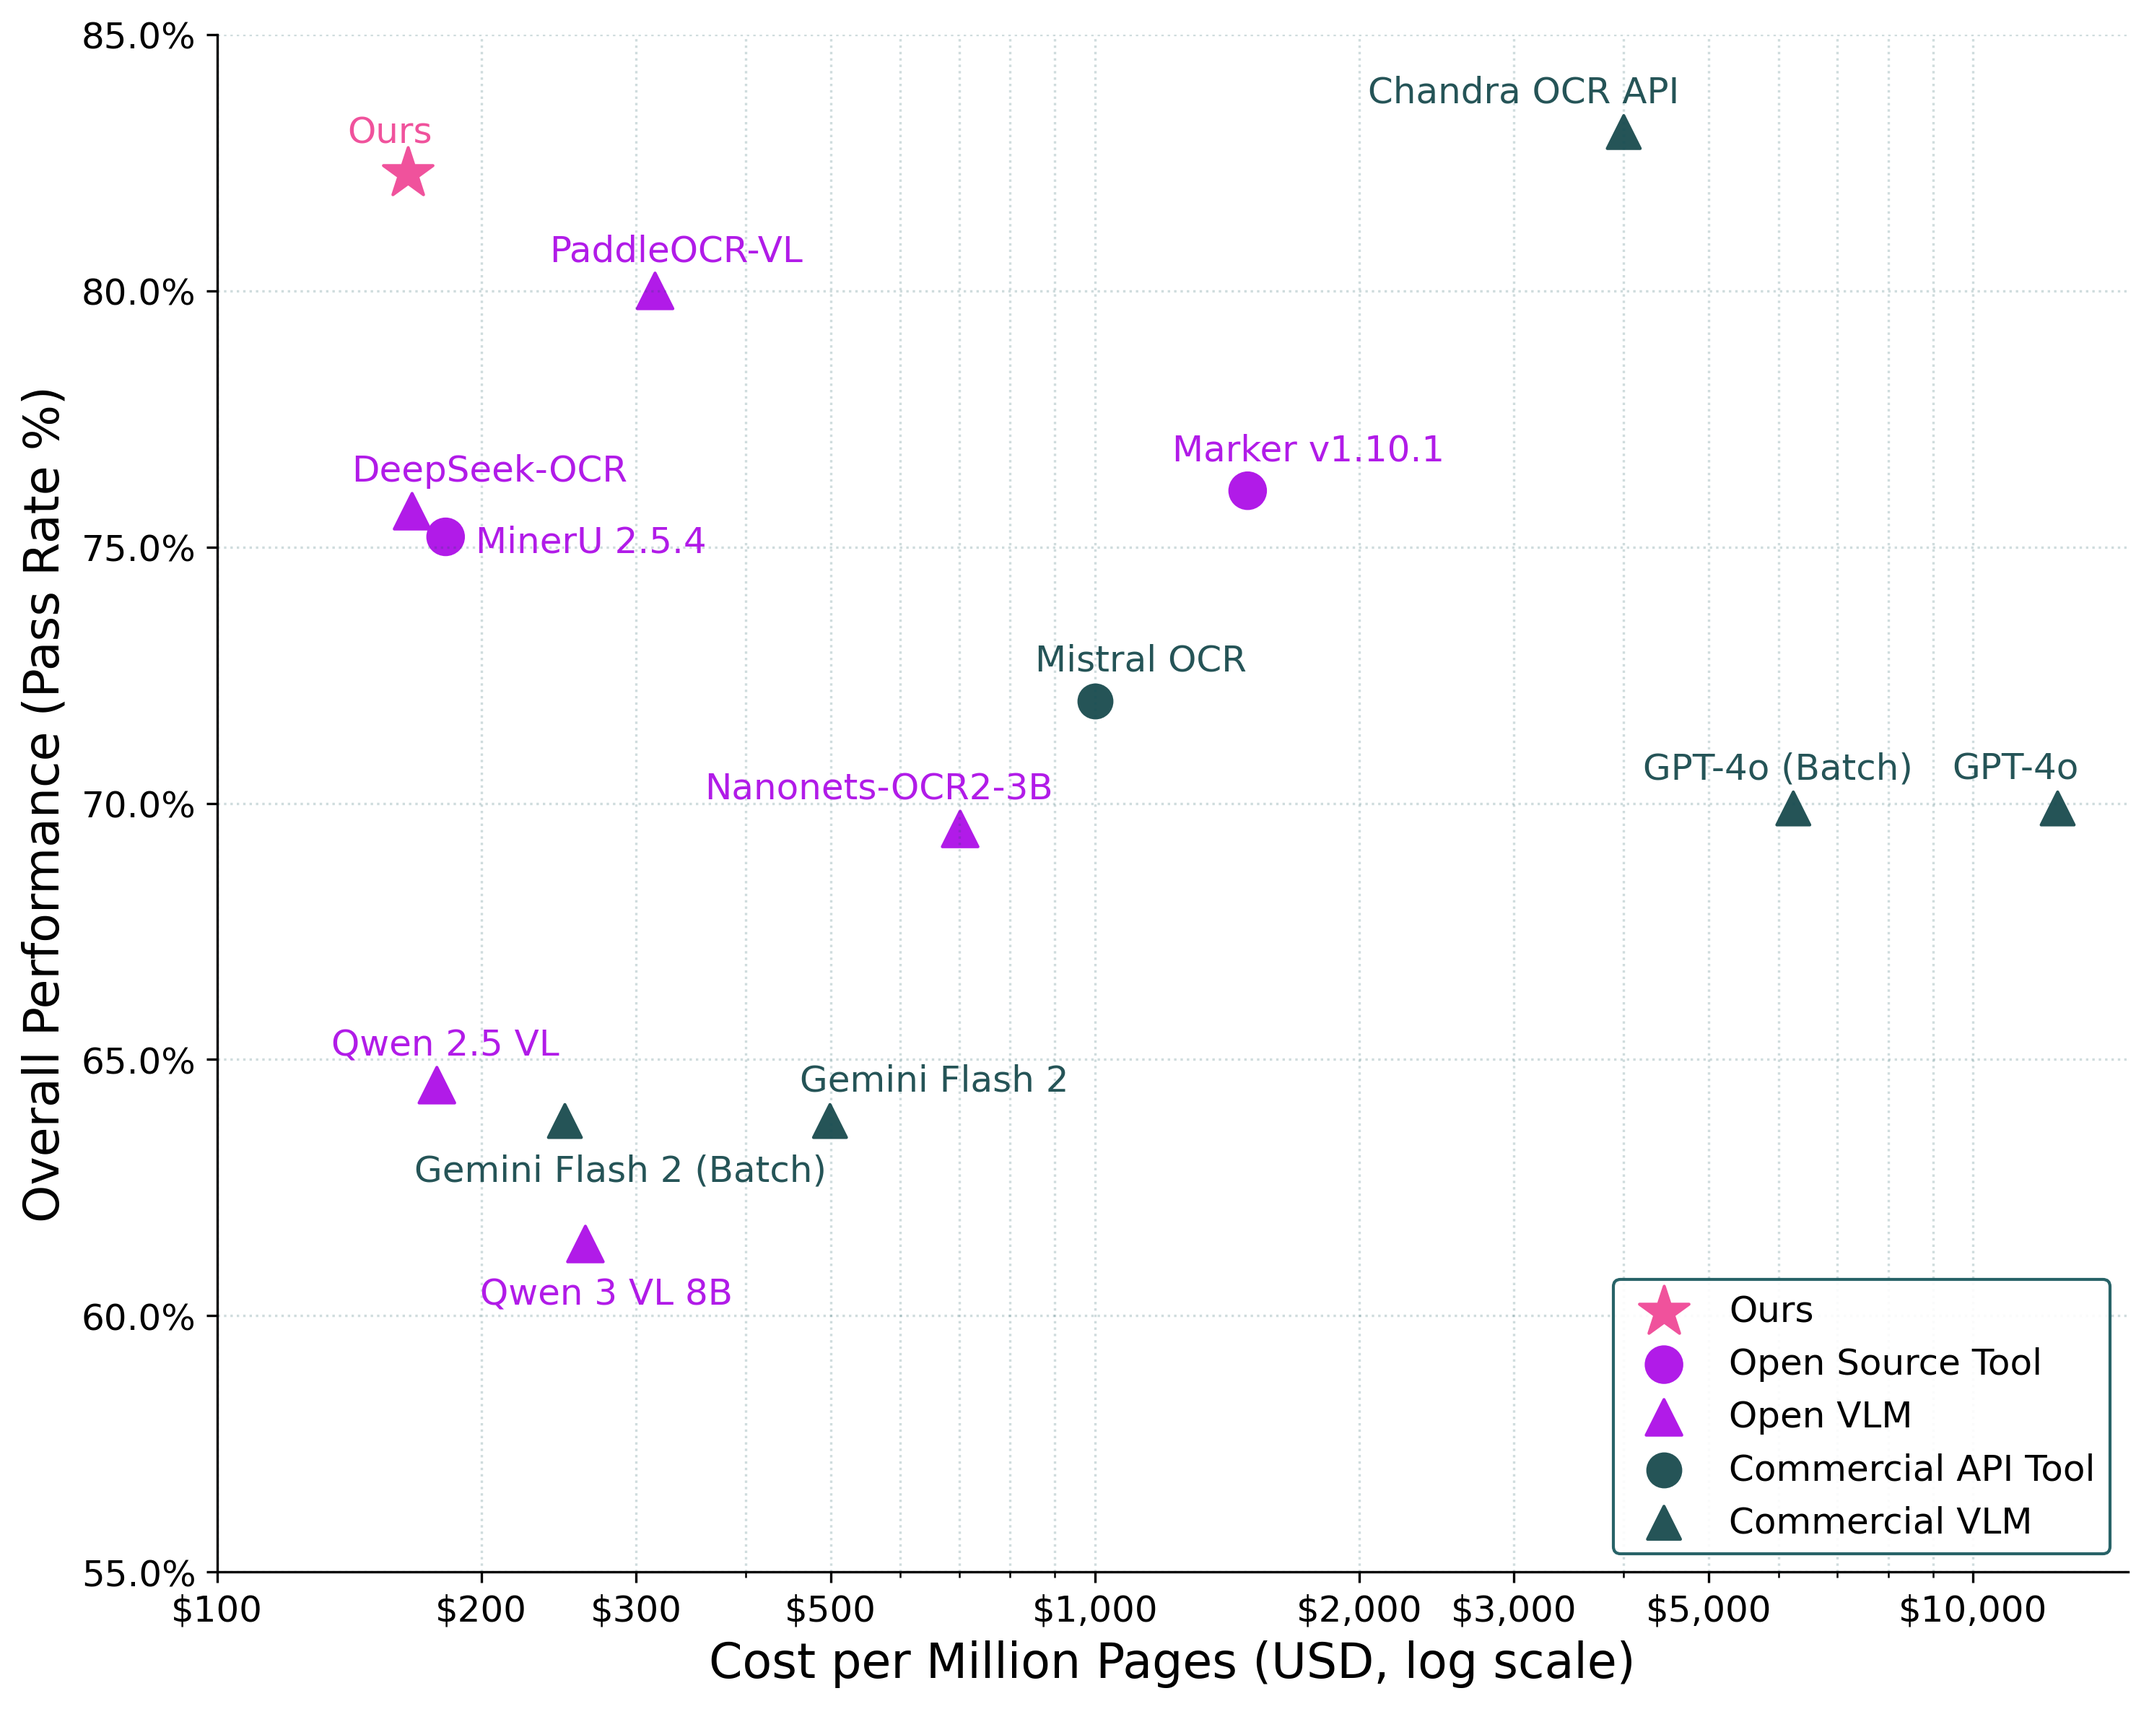
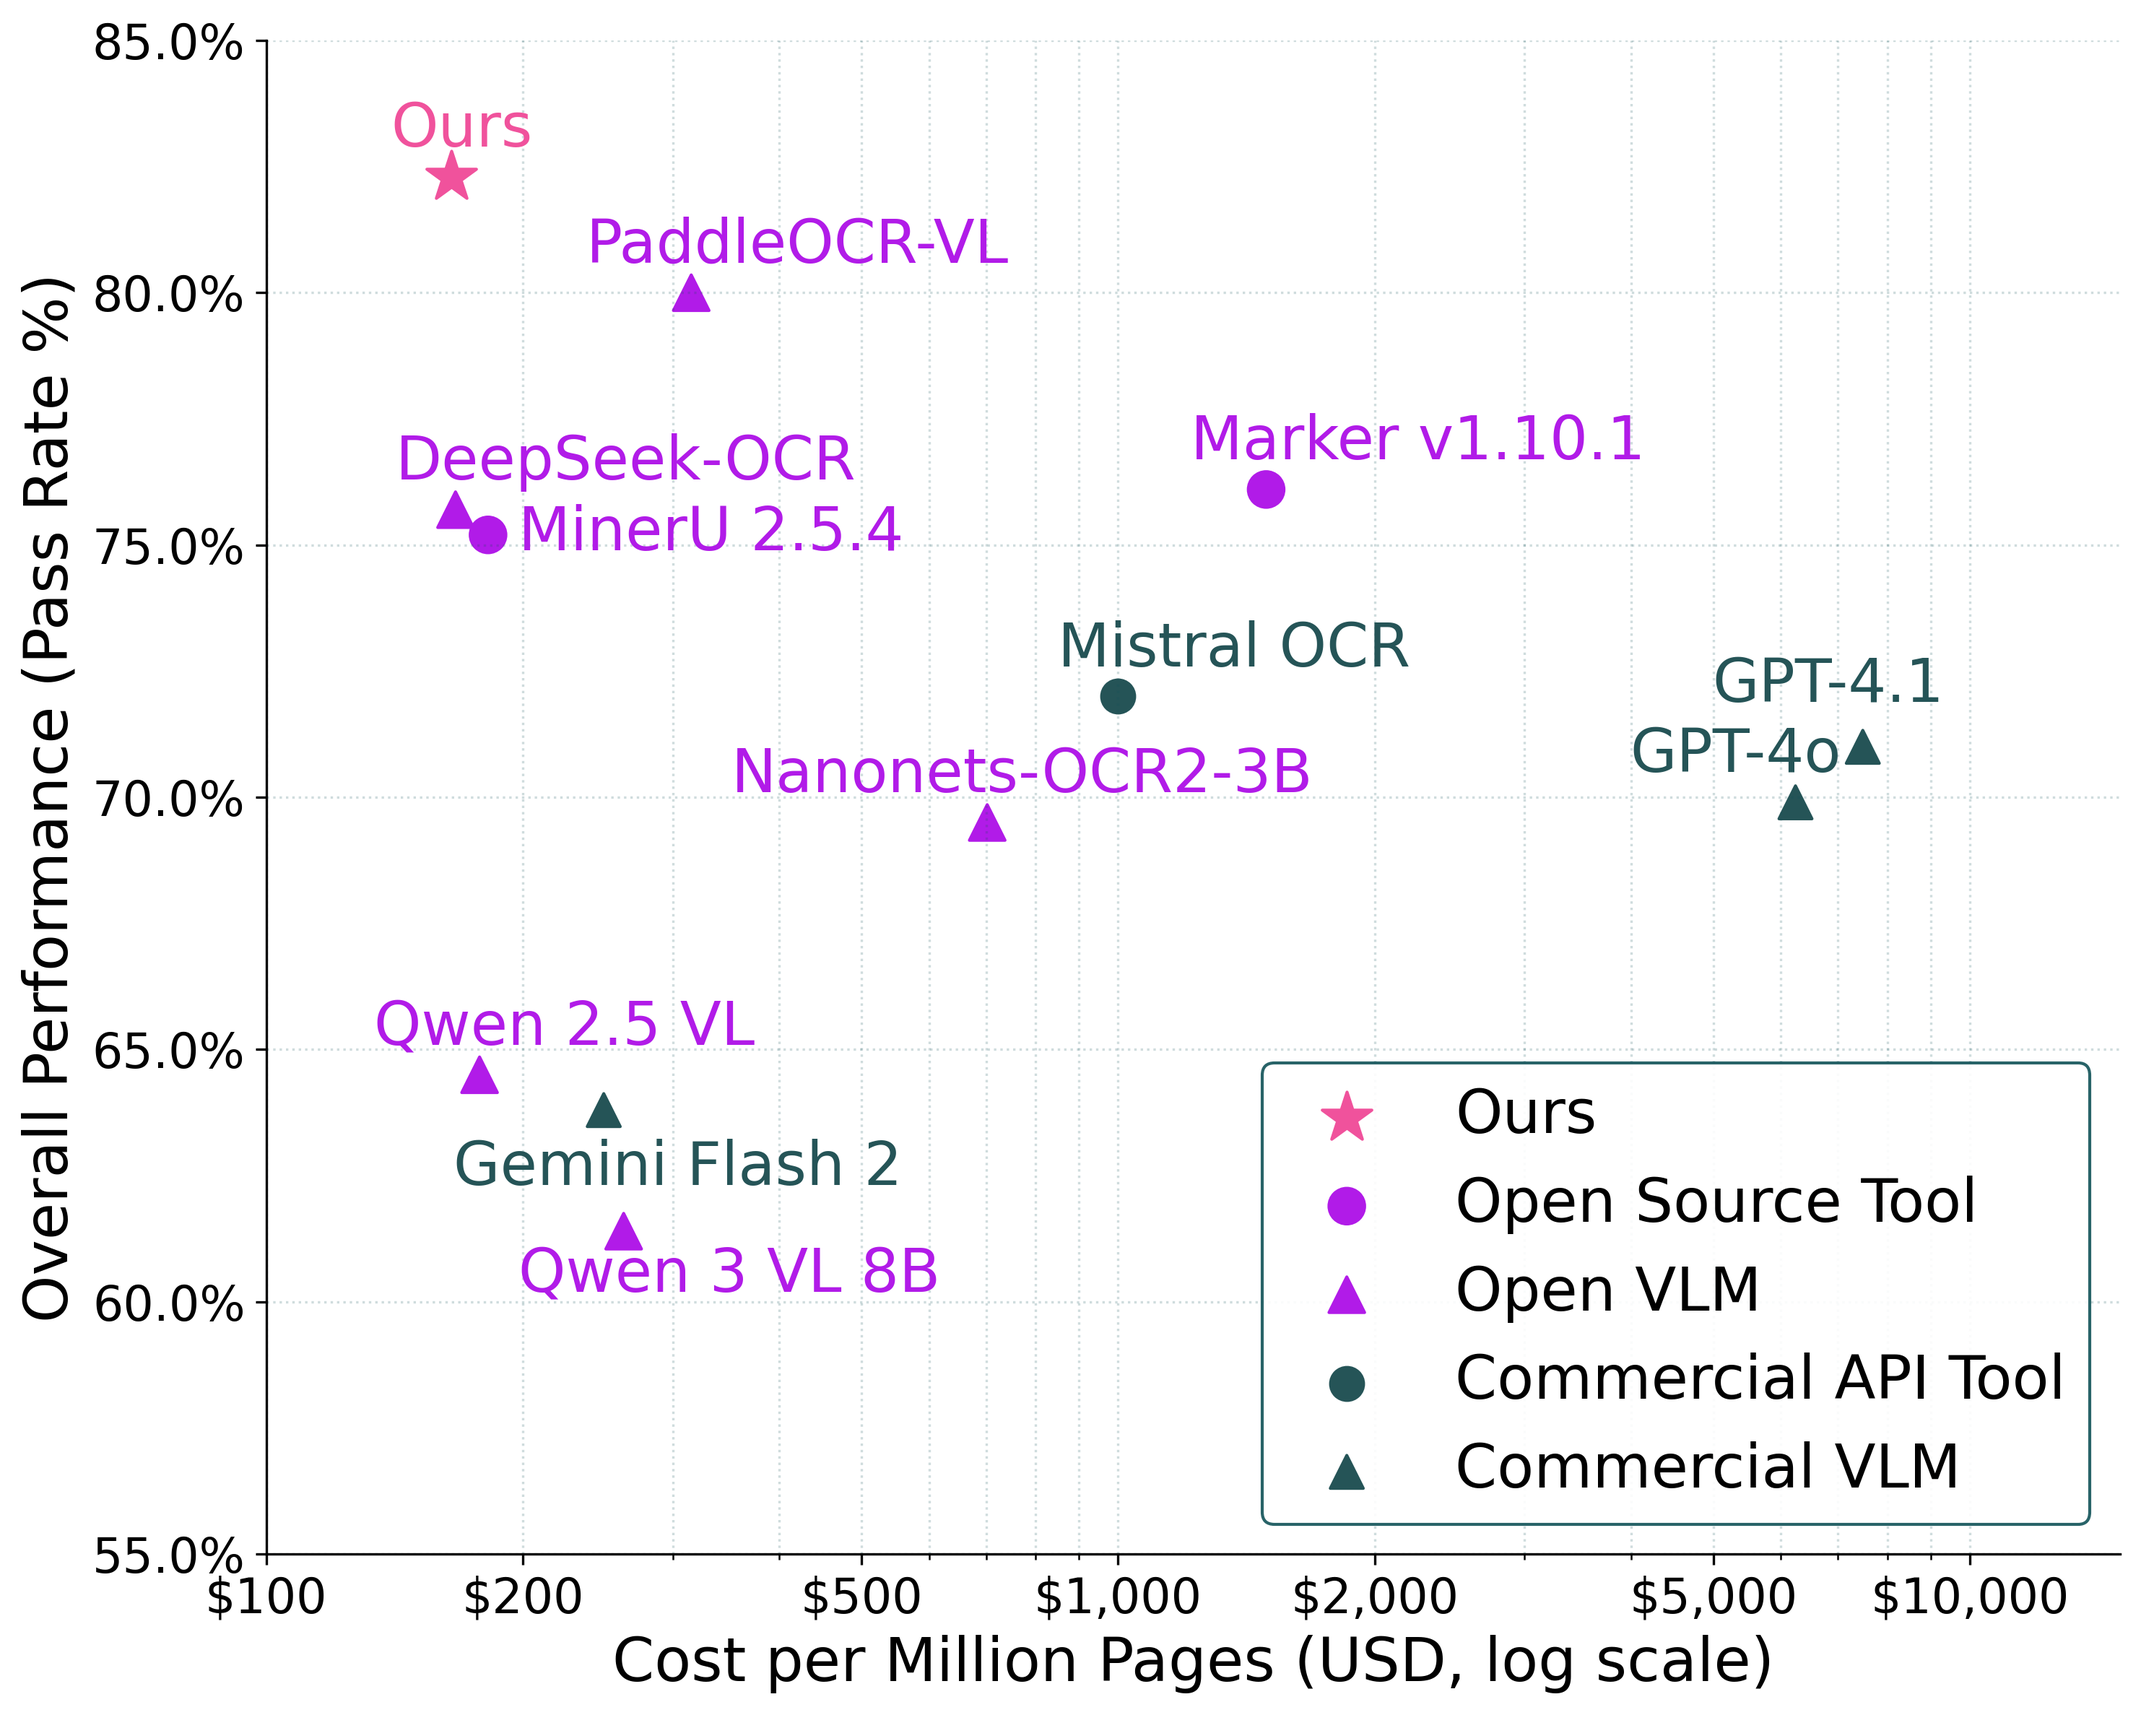
Pareto plot fixes

diff --git a/scripts/plots/pareto_plot.py b/scripts/plots/pareto_plot.py
@@ -132,12 +132,15 @@ def cost_per_million_by_page(gpu: Literal["a100", "h100", "l40s"], pages_sec: fl
 
 # All model data in one place for easy editing
 MODEL_DATA = [
-    # Perf data from historical API pricing
-    ModelData(name="GPT-4o", cost_per_million=12480, performance=69.9, category="Commercial VLM", label_offset=(-35, 10)),
-    ModelData(name="GPT-4o (Batch)", cost_per_million=6240, performance=69.9, category="Commercial VLM", label_offset=(-50, 10)),
+    # Perf data from olmocr paper
+    #ModelData(name="GPT-4o", cost_per_million=12480, performance=69.9, category="Commercial VLM", label_offset=(-35, 10)),
+    ModelData(name="GPT-4o", cost_per_million=6240, performance=69.9, category="Commercial VLM", label_offset=(-55, 10)),
+
+    # Rescaled gpt-4o prices to gpt-4.1 api rates (3.093315*3+0.833599*12)/1288* 1000000/2
+    ModelData(name="GPT-4.1", cost_per_million=7485, performance=71.0, category="Commercial VLM", label_offset=(-50, 15)),
     ModelData(name="Mistral OCR", cost_per_million=1000, performance=72.0, category="Commercial API Tool", label_offset=(-20, 10)),
-    ModelData(name="Gemini Flash 2", cost_per_million=499, performance=63.8, category="Commercial VLM", label_offset=(-10, 10)),
-    ModelData(name="Gemini Flash 2 (Batch)", cost_per_million=249, performance=63.8, category="Commercial VLM", label_offset=(-50, -20)),
+    #ModelData(name="Gemini Flash 2", cost_per_million=499, performance=63.8, category="Commercial VLM", label_offset=(-10, 10)),
+    ModelData(name="Gemini Flash 2", cost_per_million=249, performance=63.8, category="Commercial VLM", label_offset=(-50, -25)),
     # Perf data from paper https://arxiv.org/pdf/2509.22186
     ModelData(
         name="MinerU 2.5.4", cost_per_million=cost_per_million_by_page("a100", 2.12), performance=75.2, category="Open Source Tool", label_offset=(10, -5)
@@ -155,7 +158,7 @@ MODEL_DATA = [
 
     # Pricing from this tweet: https://x.com/VikParuchuri/status/1980725223616876704
     # You'd get better pricing running locally, but I couldn't get a number
-    ModelData(name="Chandra OCR API", cost_per_million=4000, performance=83.1, category="Commercial VLM", label_offset=(-85, 10)),
+    #ModelData(name="Chandra OCR API", cost_per_million=4000, performance=83.1, category="Commercial VLM", label_offset=(-85, 10)),
 
     # Going off of 200k pages per day per A100
     ModelData(
@@ -230,7 +233,7 @@ for category in categories:
     )
 
 # Add labels for each point with increased font size
-FONTSIZE = 12  # Increased from 9
+FONTSIZE = 20  # Increased from 9
 for idx, row in df.iterrows():
     plt.annotate(
         row[MODEL_COLUMN_NAME],
@@ -265,13 +268,13 @@ def dollar_formatter(x, pos):
 
 # Set specific x-axis ticks with increased font size
 plt.gca().xaxis.set_major_formatter(ticker.FuncFormatter(dollar_formatter))
-plt.gca().set_xticks([100, 200, 300, 500, 1000, 2000, 3000, 5000, 10000])
-plt.xticks(fontsize=12)  # Increased tick font size
-plt.yticks(fontsize=12)  # Increased tick font size
+plt.gca().set_xticks([100, 200, 500, 1000, 2000, 5000, 10000])
+plt.xticks(fontsize=16)  # Increased tick font size
+plt.yticks(fontsize=16)  # Increased tick font size
 
 # Add labels and title with increased font size
-plt.xlabel("Cost per Million Pages (USD, log scale)", fontsize=16, weight="medium")
-plt.ylabel("Overall Performance (Pass Rate %)", fontsize=16, weight="medium")
+plt.xlabel("Cost per Million Pages (USD, log scale)", fontsize=FONTSIZE, weight="medium")
+plt.ylabel("Overall Performance (Pass Rate %)", fontsize=FONTSIZE, weight="medium")
 # plt.title("OCR Engines: Performance vs. Cost", fontsize=12, weight="medium")
 
 # Remove spines
@@ -286,7 +289,7 @@ ordered_handles = [label_to_handle[label] for label in desired_order if label in
 ordered_labels = [label for label in desired_order if label in labels]
 
 plt.legend(
-    ordered_handles, ordered_labels, loc="lower right", fontsize=12, frameon=True, framealpha=0.9, edgecolor=TEAL, facecolor="white"  # Increased from 10
+    ordered_handles, ordered_labels, loc="lower right", fontsize=FONTSIZE, frameon=True, framealpha=0.9, edgecolor=TEAL, facecolor="white"  # Increased from 10
 )
 
 # Adjust layout
